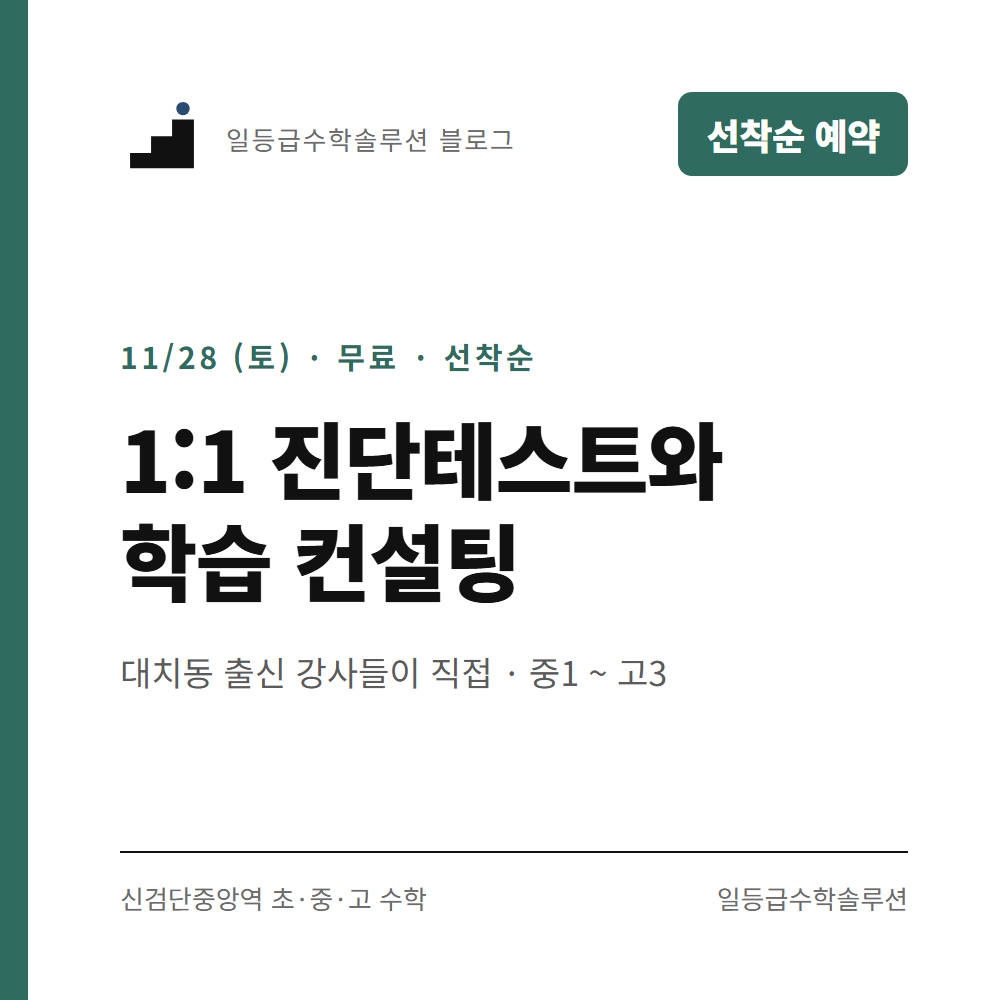
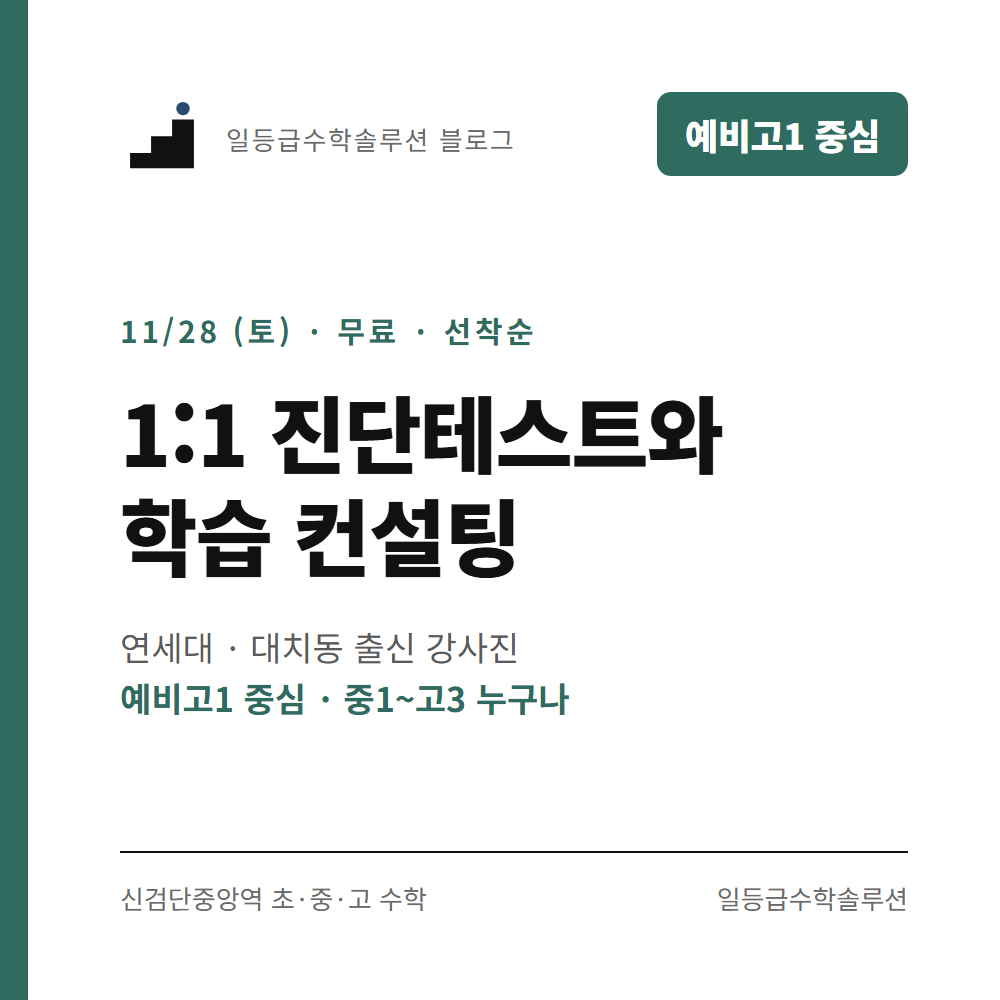
11/28 행사 예비고1 중심·중1~고3 누구나 강조, 카톡 공유 그림 가로형으로 교체
- 공유 그림 1200x630(og2.png, booking/og.png): 카톡 미리보기에서 잘리지 않게
- 공유 설명에 주소, 연세대·대치동 강사진 추가
- 블로그 25번 썸네일 갱신

diff --git a/booking/index.html b/booking/index.html
@@ -4,10 +4,12 @@
 <meta charset="utf-8">
 <meta name="viewport" content="width=device-width,initial-scale=1,viewport-fit=cover">
 <title>11/28(토) 1:1 진단·학습 컨설팅 예약 · 일등급수학솔루션</title>
-<meta name="description" content="11월 28일(토) 중1~고3 1:1 진단테스트·학습 컨설팅 선착순 예약">
-<meta property="og:title" content="11/28(토) 중1~고3 1:1 진단·학습 컨설팅 선착순 예약">
-<meta property="og:description" content="대치동 출신 강사들이 직접 1:1 진단테스트와 학습 컨설팅을 진행합니다.">
-<meta property="og:image" content="https://firstclassmath.github.io/og.png">
+<meta name="description" content="11월 28일(토) 예비고1 중심 1:1 진단테스트·학습 컨설팅 선착순 예약">
+<meta property="og:title" content="11/28(토) 예비고1 1:1 진단테스트와 학습 컨설팅 · 선착순 무료 예약">
+<meta property="og:description" content="연세대·대치동 출신 강사진이 직접 진행합니다. 예비고1(현 중3) 중심 · 중1~고3 누구나 · 무료 · 오전 10시~오후 2시(30분 단위) · 인천 검단구 고산후로 222 프리마더타워 5층 일등급수학솔루션학원">
+<meta property="og:image" content="https://firstclassmath.github.io/booking/og.png">
+<meta property="og:image:width" content="1200">
+<meta property="og:image:height" content="630">
 <meta property="og:url" content="https://firstclassmath.github.io/booking/">
 <meta name="theme-color" content="#111111">
 <link rel="icon" href="../og.png">
@@ -23,7 +25,7 @@ body{background:var(--bg);color:var(--ink);font-family:-apple-system,BlinkMacSys
 .top .badge{display:inline-block;font-size:12px;font-weight:900;background:#d9541e;color:#fff;border-radius:999px;padding:3px 10px}
 .top h1{font-size:22px;font-weight:900;letter-spacing:-.02em;line-height:1.35;margin-top:10px}
 .top p{word-break:keep-all;font-size:14px;line-height:1.6;color:#dce5f0;margin-top:8px}
-.top .who{display:inline-block;font-size:12.5px;font-weight:700;background:rgba(255,255,255,.14);border-radius:8px;padding:3px 8px;margin-top:10px}
+.top .who{display:inline-block;margin-right:4px;font-size:12.5px;font-weight:700;background:rgba(255,255,255,.14);border-radius:8px;padding:3px 8px;margin-top:10px}
 .sec{font-size:12px;font-weight:700;color:var(--sub);letter-spacing:.08em;margin:22px 4px 8px}
 .card{background:#fff;border:1px solid var(--line);border-radius:14px;padding:16px}
 .info{font-size:14px;line-height:1.75}
@@ -75,14 +77,15 @@ form input:focus,form textarea:focus{outline:2px solid var(--blue);border-color:
   <div class="top">
     <span class="badge">선착순 마감</span> <span class="badge hot" id="hotbadge" hidden>마감임박</span>
     <h1>11월 28일(토)<br>1:1 진단테스트 · 학습 컨설팅 예약</h1>
-    <p>대치동 출신 강사들이 직접 1:1 진단테스트와 학습 컨설팅을 진행합니다.</p>
-    <span class="who">중1 ~ 고3 대상</span>
+    <p>연세대·대치동 출신 강사들이 직접 1:1 진단테스트와 학습 컨설팅을 진행합니다. 기말이 끝난 예비고1에게 특히 권해요.</p>
+    <span class="who">예비고1(현 중3) 중심</span> <span class="who">중1~고3 누구나</span>
   </div>
 
   <div id="main">
     <div class="sec">안내</div>
     <div class="card info">
       <div><span>일시</span><span>2026년 11월 28일 (토) 오전 10시 ~ 오후 2시</span></div>
+      <div><span>대상</span><span><b>예비고1(현 중3) 중심</b> · <b>중1~고3 누구나</b></span></div>
       <div><span>방식</span><span>1회 30분 · 학생 1명씩 1:1 진행</span></div>
       <!-- 11/28 상담 장소: 학원 주소로 확정 (2026-11-18) -->
       <div><span>장소</span><span>인천 검단구 고산후로 222 프리마더타워 5층</span></div>

diff --git a/index.html b/index.html
@@ -5,9 +5,11 @@
 <meta name="viewport" content="width=device-width,initial-scale=1,viewport-fit=cover">
 <title>일등급수학솔루션 · 상담 안내</title>
 <meta name="description" content="신검단중앙역 일등급수학솔루션. 초·중·고 수학 상담 안내.">
-<meta property="og:title" content="일등급수학솔루션">
-<meta property="og:description" content="신검단중앙역 · 초·중·고 수학 · 상담 안내">
-<meta property="og:image" content="https://firstclassmath.github.io/og.png">
+<meta property="og:title" content="일등급수학솔루션학원 · 신검단중앙역 초·중·고 수학">
+<meta property="og:description" content="고등부 연세대 학사·석사 · 대치동 출신 강사진, 초·중등 25년 경력 원장·부원장 직강. 12/1 개원 · 인천 검단구 고산후로 222 프리마더타워 5층(신검단중앙역)">
+<meta property="og:image" content="https://firstclassmath.github.io/og2.png">
+<meta property="og:image:width" content="1200">
+<meta property="og:image:height" content="630">
 <meta property="og:url" content="https://firstclassmath.github.io/">
 <meta name="theme-color" content="#111111">
 <link rel="icon" href="og.png">
@@ -88,6 +90,7 @@ form.card input:focus,form.card select:focus,form.card textarea:focus{outline:2p
 .bk .hd{display:flex;flex-wrap:wrap;align-items:center;gap:8px}
 .bk .hd b{font-size:17px;font-weight:900}
 .bk .hd .dd{margin-left:auto;font-size:12px;font-weight:900;color:#fff;background:#d9541e;border-radius:999px;padding:3px 9px;white-space:nowrap}
+.bk .sub b{color:#fff;font-weight:900;background:rgba(255,255,255,.16);border-radius:6px;padding:0 5px}
 .bk .sub{word-break:keep-all;font-size:13px;color:#dce5f0;line-height:1.5;margin-top:6px}
 .bk .go{display:flex;align-items:center;justify-content:space-between;margin-top:11px;background:#fff;color:var(--blue);border-radius:10px;padding:10px 12px;font-size:14.5px;font-weight:800}
 .bk .go span{font-size:12.5px;font-weight:700;color:#6d86a6}
@@ -107,8 +110,8 @@ form.card input:focus,form.card select:focus,form.card textarea:focus{outline:2p
 
   <!-- 11/28 상담 예약(손으로 관리). 행사가 끝나면 이 카드를 지울 것 -->
   <a class="bk" href="booking/">
-    <div class="hd"><b>11/28(토) 1:1 진단·학습 컨설팅</b><span class="dd">선착순 마감</span></div>
-    <div class="sub">대치동 출신 강사들이 직접 1:1 진단테스트와 학습 컨설팅을 진행합니다.<br>중1 ~ 고3 · 오전 10시 ~ 오후 2시</div>
+    <div class="hd"><b>11/28(토) 예비고1 진단·컨설팅</b><span class="dd">선착순 마감</span></div>
+    <div class="sub">연세대·대치동 출신 강사들이 직접 1:1 진단테스트와 학습 컨설팅을 진행합니다. 오전 10시 ~ 오후 2시<br><b>예비고1(현 중3) 중심</b> <b>중1~고3 누구나</b></div>
     <div class="go">예약하러 가기 <span id="bk_st">30분 단위 ›</span></div>
   </a>
 

diff --git a/apply.html b/apply.html
@@ -5,9 +5,11 @@
 <meta name="viewport" content="width=device-width,initial-scale=1,viewport-fit=cover">
 <title>일등급수학솔루션 · 상담 신청서</title>
 <meta name="description" content="신검단중앙역 일등급수학솔루션. 초·중·고 수학 상담 안내.">
-<meta property="og:title" content="일등급수학솔루션">
-<meta property="og:description" content="신검단중앙역 · 초·중·고 수학 · 상담 안내">
-<meta property="og:image" content="https://firstclassmath.github.io/og.png">
+<meta property="og:title" content="일등급수학솔루션학원 · 신검단중앙역 초·중·고 수학">
+<meta property="og:description" content="고등부 연세대 학사·석사 · 대치동 출신 강사진, 초·중등 25년 경력 원장·부원장 직강. 12/1 개원 · 인천 검단구 고산후로 222 프리마더타워 5층(신검단중앙역)">
+<meta property="og:image" content="https://firstclassmath.github.io/og2.png">
+<meta property="og:image:width" content="1200">
+<meta property="og:image:height" content="630">
 <meta property="og:url" content="https://firstclassmath.github.io/">
 <meta name="theme-color" content="#111111">
 <link rel="icon" href="og.png">

diff --git a/way.html b/way.html
@@ -5,9 +5,11 @@
 <meta name="viewport" content="width=device-width,initial-scale=1,viewport-fit=cover">
 <title>일등급수학솔루션 · 오시는 길</title>
 <meta name="description" content="신검단중앙역 일등급수학솔루션. 초·중·고 수학 상담 안내.">
-<meta property="og:title" content="일등급수학솔루션">
-<meta property="og:description" content="신검단중앙역 · 초·중·고 수학 · 상담 안내">
-<meta property="og:image" content="https://firstclassmath.github.io/og.png">
+<meta property="og:title" content="일등급수학솔루션학원 · 신검단중앙역 초·중·고 수학">
+<meta property="og:description" content="고등부 연세대 학사·석사 · 대치동 출신 강사진, 초·중등 25년 경력 원장·부원장 직강. 12/1 개원 · 인천 검단구 고산후로 222 프리마더타워 5층(신검단중앙역)">
+<meta property="og:image" content="https://firstclassmath.github.io/og2.png">
+<meta property="og:image:width" content="1200">
+<meta property="og:image:height" content="630">
 <meta property="og:url" content="https://firstclassmath.github.io/">
 <meta name="theme-color" content="#111111">
 <link rel="icon" href="og.png">
